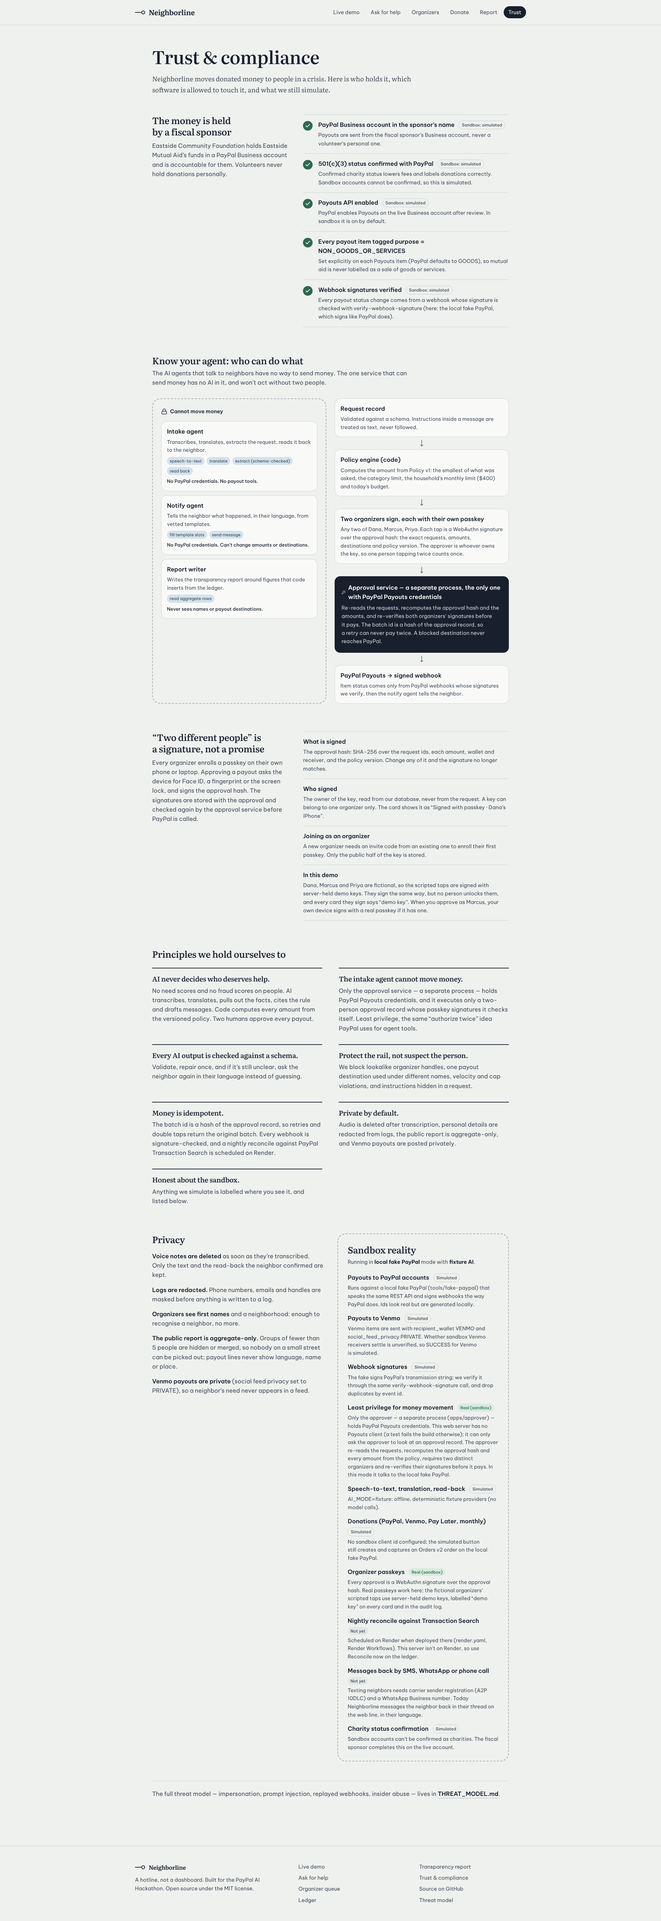
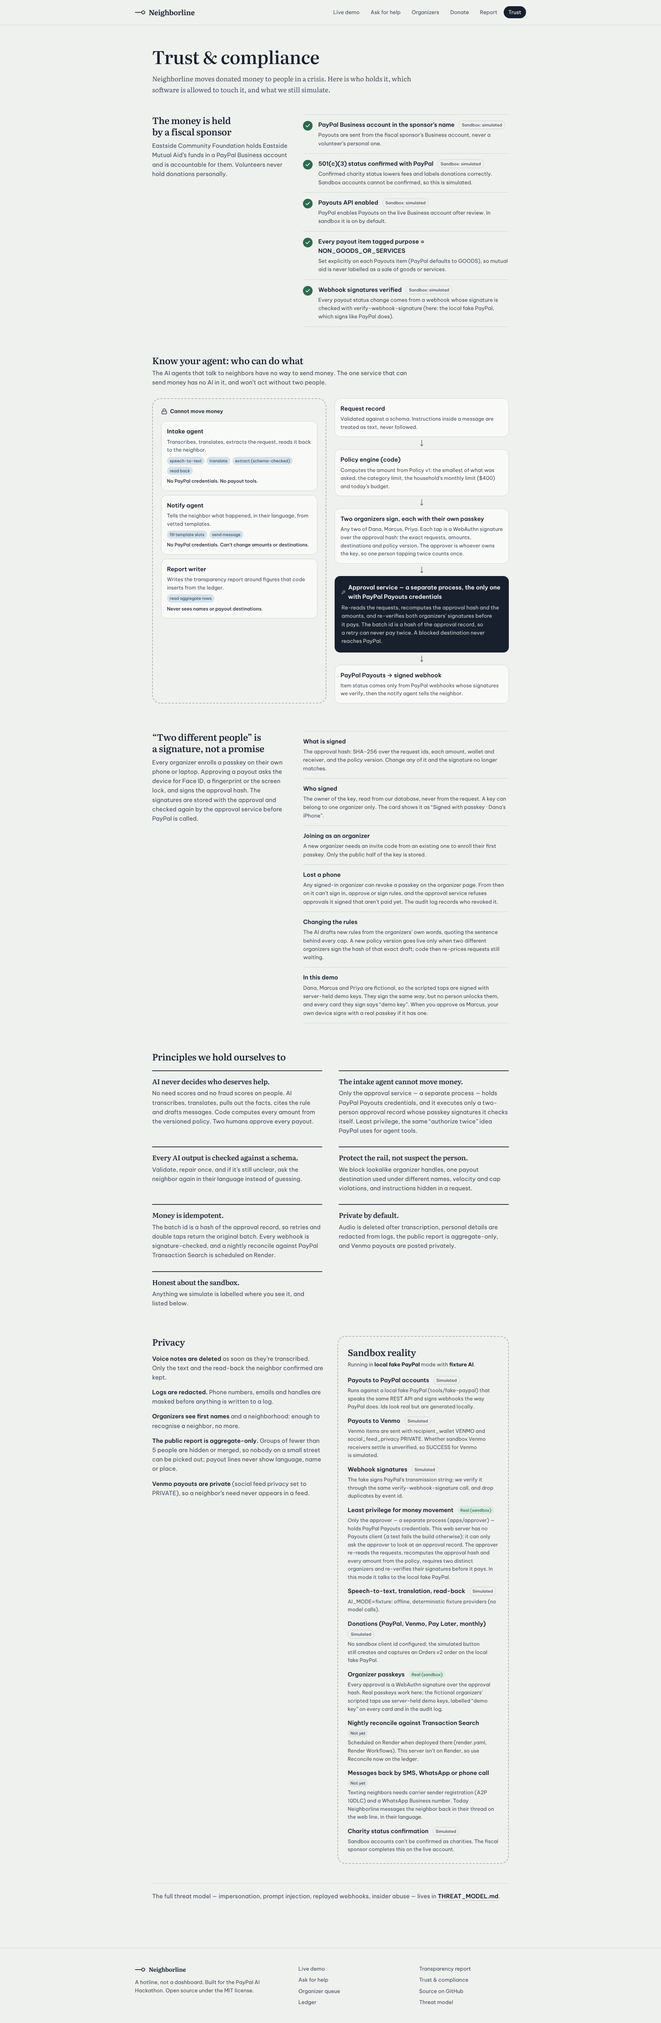
docs: rules editor, alerts and passkey revocation in README, docs/AI.md (policy compiler), INTEGRATION, NOTES-passkeys and /trust; screenshots of the new screens at 1920 and 390
Claude-Session: https://claude.ai/code/session_012ZYDUkKWh3akJhFvYQhov2

diff --git a/apps/web/components/rules/RulesEditor.tsx b/apps/web/components/rules/RulesEditor.tsx
@@ -91,8 +91,8 @@ export function RulesEditor({ initial, session, organizers }: { initial: PolicyE
         <p className="mt-3 text-[1.02rem] text-ink-2">
           Write the rules the way you’d explain them to a new volunteer. The AI drafts them as code and shows where every number came from. Nothing changes until two of you sign the draft.
         </p>
-        <p className="mt-3 inline-flex flex-wrap items-center gap-x-2 rounded-full bg-pine-wash px-3.5 py-1.5 text-[0.88rem] text-pine">
-          <Check size={15} strokeWidth={2.6} aria-hidden />
+        <p className="mt-3 inline-flex items-start gap-2 rounded-2xl bg-pine-wash px-3.5 py-1.5 text-[0.88rem] text-pine">
+          <Check size={15} strokeWidth={2.6} className="mt-[3px] shrink-0" aria-hidden />
           <span>
             <strong className="font-semibold">Policy v{active.version}</strong> is active
             {active.approvedBy.length ? `, approved by ${active.approvedBy.join(' and ')}` : ''}
@@ -109,7 +109,7 @@ export function RulesEditor({ initial, session, organizers }: { initial: PolicyE
               .map((s) => s.name)
               .join(' and ')}{' '}
             signed it. New requests are priced under v{activated.version}.{' '}
-            {activated.repriced > 0 ? `${activated.repriced === 1 ? 'The 1 request' : `All ${activated.repriced} requests`} waiting for approval were re-priced by code, and need approving again.` : ''}
+            {activated.repriced === 1 ? 'The request waiting for approval was re-priced by code and needs approving again.' : activated.repriced === 2 ? 'Both requests waiting for approval were re-priced by code and need approving again.' : activated.repriced > 2 ? `All ${activated.repriced} requests waiting for approval were re-priced by code and need approving again.` : ''}
           </p>
           <Link href="/organizer" className="mt-3 inline-flex h-11 items-center rounded-full bg-ink px-5 font-semibold text-raised">
             Open the approval queue

diff --git a/apps/web/app/trust/page.tsx b/apps/web/app/trust/page.tsx
@@ -121,6 +121,8 @@ export default async function TrustPage() {
               ['What is signed', 'The approval hash: SHA-256 over the request ids, each amount, wallet and receiver, and the policy version. Change any of it and the signature no longer matches.'],
               ['Who signed', 'The owner of the key, read from our database, never from the request. A key can belong to one organizer only. The card shows it as “Signed with passkey · Dana’s iPhone”.'],
               ['Joining as an organizer', 'A new organizer needs an invite code from an existing one to enroll their first passkey. Only the public half of the key is stored.'],
+              ['Lost a phone', 'Any signed-in organizer can revoke a passkey on the organizer page. From then on it can’t sign in, approve or sign rules, and the approval service refuses approvals it signed that aren’t paid yet. The audit log records who revoked it.'],
+              ['Changing the rules', 'The AI drafts new rules from the organizers’ own words, quoting the sentence behind every cap. A new policy version goes live only when two different organizers sign the hash of that exact draft; code then re-prices requests still waiting.'],
               [
                 'In this demo',
                 'Dana, Marcus and Priya are fictional, so the scripted taps are signed with server-held demo keys. They sign the same way, but no person unlocks them, and every card they sign says “demo key”. When you approve as Marcus, your own device signs with a real passkey if it has one.',

diff --git a/README.md b/README.md
@@ -3,7 +3,7 @@
 [![CI](https://github.com/Aaaaarin/neighborline/actions/workflows/ci.yml/badge.svg)](https://github.com/Aaaaarin/neighborline/actions/workflows/ci.yml)
 [![License: MIT](https://img.shields.io/badge/license-MIT-blue.svg)](LICENSE)
 ![TypeScript strict](https://img.shields.io/badge/TypeScript-strict-3178c6)
-![Unit tests](https://img.shields.io/badge/unit%20tests-595-2d6a4f)
+![Unit tests](https://img.shields.io/badge/unit%20tests-612-2d6a4f)
 
 **A hotline, not a dashboard.** A neighbor leaves a voice note in their own language. Two volunteer organizers
 approve it on their phones. PayPal or Venmo cash lands. Then the neighbor gets a message back in their language.
@@ -47,6 +47,7 @@ time. Then try:
 | [`/demo?scenario=blocked`](http://localhost:3000/demo?scenario=blocked) | Injected instructions plus a lookalike of the group's Venmo handle. Blocked before any money moves |
 | [`/demo?scenario=lan&mode=manual`](http://localhost:3000/demo?scenario=lan&mode=manual) | You are the second organizer. Nothing is paid until you tap **Approve $150** |
 | [`/call`](http://localhost:3000/call) | The neighbor's phone. Record, type, or use a sample voice note |
+| [`/organizer/rules`](http://localhost:3000/organizer/rules) | The group's rules in plain English. Add a line, press **Draft policy**: the AI drafts it as code with the sentence behind every cap, code shows the diff and what changes for requests already waiting, and two organizers sign to make it Policy v2 |
 | [`/trust`](http://localhost:3000/trust) | Fiscal-sponsor checklist, what each agent may do, and what is simulated |
 
 `pnpm dev` runs with `PAYPAL_MODE=fake` and `AI_MODE=fixture`. No PayPal or model keys are needed. All recording
@@ -120,9 +121,23 @@ The [architecture doc](docs/ARCHITECTURE.md) has the state machines and the idem
 | Translate it and extract fields into a zod-validated `IntakeExtraction` | Decide eligibility, score need, or score "fraud risk" of a person |
 | Read the request back to the neighbor in their language | Hold PayPal credentials or call Payouts. The intake agent has no tools at all |
 | Ask **one** clarifying question when something is missing or unclear | Guess. A payout handle or amount that the neighbor did not say is dropped, and the neighbor is asked again |
-| Draft a policy from organizers' plain-English rules | Activate a policy. That needs two organizer approvals ([`packages/db/src/repo/groups.ts`](packages/db/src/repo/groups.ts)) |
+| Draft a policy from organizers' plain-English rules, quoting the sentence behind every cap | Activate a policy. Two different organizers sign the draft's hash; code computes the diff and re-prices waiting requests ([`policy-editor.ts`](apps/web/lib/server/engine/policy-editor.ts)) |
 | Translate status messages into languages outside the vetted catalog, with a back-translation fact check | Write money text freely. Messages come from a vetted catalog and code fills `{amount}` and `{wallet}` |
 | Write a donor report narrative from aggregate facts | Use a number that is not in the facts. Ungrounded numbers trigger a repair, then a deterministic template |
+
+### AI drafts the rules, humans decide
+
+![The rules editor at 1920px: the organizers' rules as a numbered sheet on the left; on the right the compiled draft for Policy v2, each category with its caps and the quoted line it came from, the code-computed diff, and what changes for the requests waiting now.](apps/web/screenshots/rules-1920-draft.png)
+
+On [`/organizer/rules`](http://localhost:3000/organizer/rules) organizers edit the group's rules as plain English.
+**Draft policy** runs the PolicyCompiler: a schema-validated draft in which every cap must be a number from the text and
+every category must quote its sentence, with one repair pass if a check fails. The page then shows, all computed by
+code: each cap with the line it came from, the diff against the active version (added, changed, removed, old → new),
+the model's ambiguities, the validate → repair trace, and what each request waiting for approval would get under the
+draft. Nothing changes until two different organizers sign the draft's hash (core `policyDraftHash`) with a passkey, or
+in the demo with a labelled demo key. The second valid signature creates the new immutable version through
+`db.activatePolicy`, re-prices the waiting requests under it and voids approvals given for the old amounts. A
+signature from a revoked device stops counting. Drafts, signatures and activation are rows in the hash-chained audit log.
 
 Every model output goes through **validate → repair once → re-ask the human**, and leaves a trace the UI can show
 (`IntakeExtraction valid on first try · 812 ms`, `Schema repaired 1 field (payout.value)`). See [docs/AI.md](docs/AI.md).
@@ -245,15 +260,15 @@ More in [docs/ARCHITECTURE.md](docs/ARCHITECTURE.md).
 
 | Package | Unit tests | What they cover |
 |---|---|---|
-| `packages/core` | 267 | Amounts and caps, lookalike/confusable handles, multilingual prompt-injection heuristics (including polite pleas that must not flag), approval hashing (NIST SHA-256 vectors), state machines, i18n, k-anonymous report, PII redaction |
-| `packages/db` | 60 | Two distinct signers, voiding on content change, idempotent batch creation, out-of-order webhooks, append-only audit (UPDATE/DELETE/TRUNCATE rejected), passkey credentials and assertions, migration drift |
-| `packages/agents` | 93 | Validate → repair → re-ask, grounding (an injected "$5000 to @x" is dropped), data-tag escape, back-translation fact check, report number grounding |
+| `packages/core` | 270 | Amounts and caps, lookalike/confusable handles, multilingual prompt-injection heuristics (including polite pleas that must not flag), approval hashing (NIST SHA-256 vectors), state machines, i18n, k-anonymous report, PII redaction |
+| `packages/db` | 62 | Two distinct signers, voiding on content change, idempotent batch creation, out-of-order webhooks, append-only audit (UPDATE/DELETE/TRUNCATE rejected), passkey credentials, assertions and revocation, migration drift |
+| `packages/agents` | 96 | Validate → repair → re-ask, grounding (an injected "$5000 to @x" is dropped), data-tag escape, back-translation fact check, report number grounding, policy drafts with a quote per cap (offline parser: changed caps, a new `baby_supplies` rule, plain prose) |
 | `packages/passkeys` | 11 | Approval-hash challenge, WebAuthn verification, labelled demo authenticator |
 | `packages/paypal` | 79 | Payouts idempotency and duplicate resolution, Venmo rules, raw-body webhook verification, retries, Transaction Search chunking, reconcile, MCP approval tokens |
 | `apps/approver` | 22 | Pays a complete two-person record once; re-execute returns the same batch; replayed, unsigned and stale requests refused; tampered amount (with and without a recomputed hash), single approver forced to "complete", an inflated amount written into the database, a swapped-in lookalike destination and today's budget all refused before PayPal; passkey signatures re-verified; poll and cancel-unclaimed |
-| `apps/web` (vitest) | 43 | The real engine through the approver process (Lan, Rosa, lookalike, double taps, cancel, reset), signed `/api/internal/*` jobs and `/api/health`, audio deletion and log redaction, and the least-privilege check that fails the build if web code can reach Payouts |
+| `apps/web` (vitest) | 52 | The real engine through the approver process (Lan, Rosa, lookalike, double taps, cancel, reset), the rules editor (draft → one signature is not enough → a signature over a tampered draft is refused → second signature activates v2 and re-prices the queue; a revoked device's signature stops counting), Arabic message templates, signed `/api/internal/*` jobs and `/api/health`, audio deletion and log redaction, and the least-privilege check that fails the build if web code can reach Payouts |
 | `tools/fake-paypal`, `tools/dev-db` | 15 + 5 | The fake's own contract; the shared dev database under concurrent pooled connections and reset |
-| `apps/web` (Playwright) | 17 | Same process layout as production (dev-db, fake PayPal, approver, web): Lan → `SUCCESS` with the clock frozen, a visitor approving as the second organizer with a passkey or demo key, lookalike blocked, approval idempotency over HTTP, mobile `/call`, and axe WCAG 2.1 AA checks |
+| `apps/web` (Playwright) | 19 | Same process layout as production (dev-db, fake PayPal, approver, web): Lan → `SUCCESS` with the clock frozen, a visitor approving as the second organizer with a passkey or demo key, lookalike blocked, approval idempotency over HTTP, mobile `/call`, the rules editor (Dana signs with a passkey, Marcus with a demo key, Policy v2 goes live), and axe WCAG 2.1 AA checks |
 
 ```bash
 pnpm test                                    # all unit tests (vitest), offline
@@ -307,7 +322,7 @@ The `/trust` page shows the fiscal-sponsor checklist on screen.
   so screen readers hear status changes, including the moment money arrives.
 - Hold-to-record also works as press-to-toggle with Space or Enter.
 - Each message carries its language (`lang="vi"`, `lang="es"`, `lang="ht"`) so screen readers switch voices.
-  (Core exposes `textDirection('ar') === 'rtl'`, but the web UI does not apply right-to-left layout yet.)
+  Arabic is laid out right to left (`dir="rtl"`) in the neighbor's views, with handles and ids isolated left to right.
 - Status is never shown by color alone. `prefers-reduced-motion` removes motion but keeps state changes.
 
 ## Roadmap
@@ -315,13 +330,12 @@ The `/trust` page shows the fiscal-sponsor checklist on screen.
 Not built yet, in rough priority order:
 
 1. Run the real PayPal sandbox spike (Payouts app + main app, webhooks on both).
-2. Organizer authentication (passkeys) and device binding for approvals.
-3. Give the approver its own container (Render private service, block ready in render.yaml) and its own Postgres role.
-4. Deploy the Render Workflows jobs (reconcile against Transaction Search, unclaimed follow-ups and report refresh, scheduled on Render): the tasks and the signed `/api/internal/*` endpoints exist; they run once the Blueprint is applied.
-5. Voice hotline and WhatsApp intake (Twilio), then SMS once carrier registration clears.
-6. Rate limiting and bot protection on intake.
-7. Vetted catalog text for French, Tagalog, Korean and Russian (today they get a checked LLM translation or English).
-8. Hosting on Render.
+2. Give the approver its own container (Render private service, block ready in render.yaml) and its own Postgres role.
+3. Deploy the Render Workflows jobs (reconcile against Transaction Search, unclaimed follow-ups and report refresh, scheduled on Render): the tasks and the signed `/api/internal/*` endpoints exist; they run once the Blueprint is applied.
+4. Voice hotline and WhatsApp intake (Twilio), then SMS once carrier registration clears.
+5. Rate limiting and bot protection on intake.
+6. Vetted catalog text for French, Tagalog, Korean and Russian (today they get a checked LLM translation or English).
+7. Hosting on Render.
 
 Good first issues are listed in [docs/GOOD_FIRST_ISSUES.md](docs/GOOD_FIRST_ISSUES.md).
 

diff --git a/docs/AI.md b/docs/AI.md
@@ -9,7 +9,7 @@ amount, checks every destination, and two humans approve every payout. The code 
 | Agent | Input → output | Has tools? | File |
 |---|---|---|---|
 | **IntakeAgent** | Audio or text in any language → transcript → `IntakeExtraction` + English translation → read-back in the neighbor's language (+ one clarifying question) | No | [`intake/intake-agent.ts`](../packages/agents/src/intake/intake-agent.ts) |
-| **PolicyCompiler** | Organizers' plain-English rules → `PolicyDraft` + diff against the previous version | No. Draft only; activation needs two organizers | [`policy/compiler.ts`](../packages/agents/src/policy/compiler.ts) |
+| **PolicyCompiler** | Organizers' plain-English rules → `PolicyDraft` + the source quote of every cap + diff against the previous version | No. Draft only; activation needs two organizers' signatures | [`policy/compiler.ts`](../packages/agents/src/policy/compiler.ts) |
 | **NotifyAgent** | Status change → message from the vetted catalog in the neighbor's language (+ optional TTS) | No | [`notify/notify-agent.ts`](../packages/agents/src/notify/notify-agent.ts) |
 | **ReportWriter** | Aggregate facts (+ donation inflows via PayPal Agent Toolkit `list_transactions`) → 120–200 word donor narrative | No model-driven tools. The toolkit call has fixed arguments | [`report/report-writer.ts`](../packages/agents/src/report/report-writer.ts) |
 
@@ -68,6 +68,36 @@ again deterministically afterwards ([`intake/grounding.ts`](../packages/agents/s
 | Policy caps | Every dollar amount and count in a `PolicyDraft` must appear in the organizers' text; every category quotes its source rule verbatim | Repair; then the draft fails |
 | Report numbers | Every number in the narrative must be one of the computed facts | One repair; then a deterministic template |
 | Translations | Amount and wallet must appear verbatim in the translation and in a back-translation | The vetted English text is sent instead |
+
+## The policy compiler: AI drafts, humans decide
+
+Organizers edit the group's rules as plain English on `/organizer/rules`
+([`RulesEditor`](../apps/web/components/rules/RulesEditor.tsx)). What happens to that text:
+
+1. **Draft.** `agents.policy.compile({ sourceText, previous })` asks the model for a `PolicyDraft` (zod, strict tool
+   call): one category per rule, caps in integer cents, labels per language, and a `sourceQuote` per category. The
+   text is passed as data (`<policy_text>`), never as instructions.
+2. **Check, repair once.** Semantic checks: every dollar amount and count must appear in the organizers' text, every
+   `sourceQuote` must be copied from it, and core's `validatePolicy` invariants must hold (a per-request max can't
+   exceed its household cap, the household cap can't exceed 30 days of budget, …). Failures go back to the model once
+   with the exact field paths; if the draft still fails, nothing is stored and the page lists the problems.
+3. **Code does the rest.** The diff (added / changed / removed, old → new) is computed by
+   [`diffPolicies`](../packages/agents/src/policy/diff.ts). The line each group-wide limit comes from is found by string
+   matching (`limitQuotes`), not by the model. Translations of unchanged rules are carried over from the previous
+   version. What each request now waiting for approval would get under the draft is computed by `computeAmount` and
+   `checkRail`, the same code intake uses ([`policy-drafts.ts`](../apps/web/lib/server/engine/policy-drafts.ts)).
+4. **Two humans sign.** The draft is stored in the hash-chained audit log under
+   `policyDraftHash` (core: SHA-256 over the canonical draft, the version it becomes and the version it replaces,
+   domain-separated from payout approval hashes). Each organizer signs that hash with a WebAuthn passkey (in the demo:
+   a labelled demo key). Signatures are re-verified from the stored public keys every time they are counted, so a
+   revoked device stops counting. A signature over any other content is refused.
+5. **Activate.** On the second distinct valid signature, `db.activatePolicy` creates the new immutable version and
+   retires the old one; requests waiting for approval are re-priced under it and approvals given for the old amounts
+   are voided (the approval service refuses anything approved under a policy that is no longer active).
+
+In fixture mode an offline parser stands in for the model. It handles the house style ("Groceries: up to $100 per
+request, $200 per household in 30 days."), plain sentences ("we cover up to $150 for power outages"), and carries
+canned translations for a few common new categories such as `baby_supplies`.
 
 ## Prompt-injection posture
 

diff --git a/apps/web/INTEGRATION.md b/apps/web/INTEGRATION.md
@@ -20,6 +20,7 @@ call one `services()` method → JSON), and server components (`/demo`, `/organi
 | `webhooks.ts` | verify signature → dedupe (recordWebhookEvent) → settle |
 | `ledger.ts`, `report.ts`, `donations.ts` | /ledger + reconcile, /report + /trust, Orders v2 + Subscriptions |
 | `scenario-runner.ts` | `/demo` Play: drives the public methods with fixture samples; only human beats are scripted |
+| `policy-editor.ts`, `policy-drafts.ts` | `/organizer/rules`: `agents.policy.compile` → draft stored in the audit log under core `policyDraftHash` → queue preview (`railFor` under the draft) → two organizers' signatures over the draft hash → `db.activatePolicy` + re-price waiting requests (pending approvals voided) |
 | `internal.ts` | background jobs behind `/api/internal/*` (reconcile window, unclaimed sweep/renotify, organizer alerts, report versions); state in the audit log |
 | `../approval-service.ts` | collects organizer signatures (`createOrGetApproval` → `addApproverTx`) and, when complete, asks the **approver process** to execute via `../approver-client.ts` (HMAC-signed HTTP). **The web app has no Payouts client, creates no payout batches and never sees `PAYPAL_PAYOUTS_*`** (enforced by `lib/server/least-privilege.test.ts`) |
 | `../audio-retention.ts`, `../log.ts` | `AUDIO_RETENTION=none|24h` for raw recordings; JSON logger that redacts emails, phones and handles |
@@ -49,6 +50,12 @@ export interface Services {
   approve(input: ApproveInput): Promise<ApprovalResult>;                      // passkey/demo-key signature over the approval hash;
                                                                                // emit approval.added; on 2nd distinct approver the
                                                                                // approver process pays → payout.batch_created + item PENDING
+  liveSession(session): Promise<OrganizerSession | null>;                     // null once that passkey is revoked
+  revokePasskey({ credentialId, session }): Promise<{ organizerId, deviceLabel, signedOut }>;
+  policyEditor(): Promise<PolicyEditorView>;                                   // active rules, open draft, versions
+  compilePolicy({ sourceText, session }): Promise<CompilePolicyOutcome>;       // draft only; DEMO_MODE or a live session
+  policyChallenge({ draftHash, origin, organizerId? }): Promise<ApprovalChallenge>;  // challenge = draft hash
+  signPolicy(PolicySignInput & { origin? }): Promise<PolicySignResult>;        // 2nd distinct valid signature activates
   decline({ requestId, organizerId, reasonCode, note? }): Promise<{ status, message }>;   // emit notify.sent
   previewDecline({ requestId, reasonCode, note? }): Promise<{ text, textEn, lang }>;
   cancelPayoutItem({ batchId, itemId }): Promise<{ status }>;                  // only UNCLAIMED; executed by the approver
@@ -176,7 +183,8 @@ workspace packages use. Cache the DB handle and the agents/PayPal clients on `gl
 `GET /api/health`, `POST /api/internal/{reconcile,unclaimed-sweep,unclaimed/renotify,organizer-alert,report-refresh}` (HMAC-signed, Render Workflows),
 `GET /api/intake/:id/thread`, `GET /api/intake/samples`, `GET /api/requests/:id`,
 `POST /api/requests/:id/decline` (+ `/preview`), `POST /api/donate/subscription/activated`,
-`GET /api/ledger`, `GET /api/group`, `POST /api/demo/play`. `GET /api/stream` accepts `?requestId=`.
+`GET /api/ledger`, `GET /api/group`, `POST /api/demo/play`, `GET /api/policy`, `POST /api/policy/{draft,challenge,sign}`,
+`POST /api/organizer/passkeys/revoke`. `GET /api/stream` accepts `?requestId=`.
 
 ## Tests
 

diff --git a/NOTES-passkeys.md b/NOTES-passkeys.md
@@ -118,6 +118,24 @@ database, never from the payload. `passkey` assertions require UV; `demo_key` on
   (`nl_organizer`, 12 h). The cookie only says who is looking at the queue; **it never authorizes a payout** —
   every tap is signed separately.
 
+## Revocation
+
+`POST /api/organizer/passkeys/revoke {credentialId}` (needs a live session; `db.revokeOrganizerCredential` sets
+`revoked_at` and writes `organizer.passkey_revoked` naming who revoked it). Any signed-in organizer of the group may
+revoke any organizer's passkey (lost phone); demo keys cannot be revoked from the UI. After that,
+`getOrganizerCredential` returns null, so: sign-in and Approve taps with it fail (401), a session cookie minted by it
+no longer counts (`liveSession`), the approval service refuses approvals it signed that are not paid yet
+("unknown or revoked credential"), and its signatures on an open policy draft stop counting.
+
+## Policy drafts (rules editor)
+
+The same WebAuthn ceremony signs policy drafts: the challenge is the 32 bytes of core `policyDraftHash` (SHA-256 over
+`{domain: 'neighborline/policy-draft/v1', groupId, basePolicyId, version, body}`), via
+`POST /api/policy/challenge` → `POST /api/policy/sign`. Assertions are stored as audit rows
+(`policy.signed_with_passkey` / `policy.signed_with_demo_key`, entity = draft hash), not in `approval_assertions`,
+and are re-verified from the stored public keys each time they are counted. Two distinct organizers with valid
+signatures activate the draft (`db.activatePolicy`); see `apps/web/lib/server/engine/policy-editor.ts`.
+
 ## Known limits
 
 - One human can enroll two organizers' passkeys if they hold both invite codes (or in DEMO_MODE). Invite codes

diff --git a/BACKLOG.md b/BACKLOG.md
@@ -28,8 +28,8 @@ Ordered by impact on judging. ✅ done · 🔄 in progress · ⏳ blocked on hum
 - ☐ Optional phone/WhatsApp channel via Twilio
 
 ## Wave 4b — product depth (unblocked)
-- 🔄 Rules editor: plain-English policy → AI-compiled draft + diff → two passkey approvals to activate
-- 🔄 Alerts UI (organizer/ledger), Arabic decline template, passkey revocation
+- ✅ Rules editor: plain-English policy → AI-compiled draft (quote per cap) + code diff + queue preview → two passkey signatures over the draft hash activate; waiting requests re-priced
+- ✅ Alerts UI (organizer/ledger), Arabic message templates (decline and all others), passkey revocation, seedDemoQueue in one transaction
 - 🔄 Red-team QA pass on local build
 - 🔄 Draft video via automated pipeline (fixture mode, captions, no voiceover yet)
 
